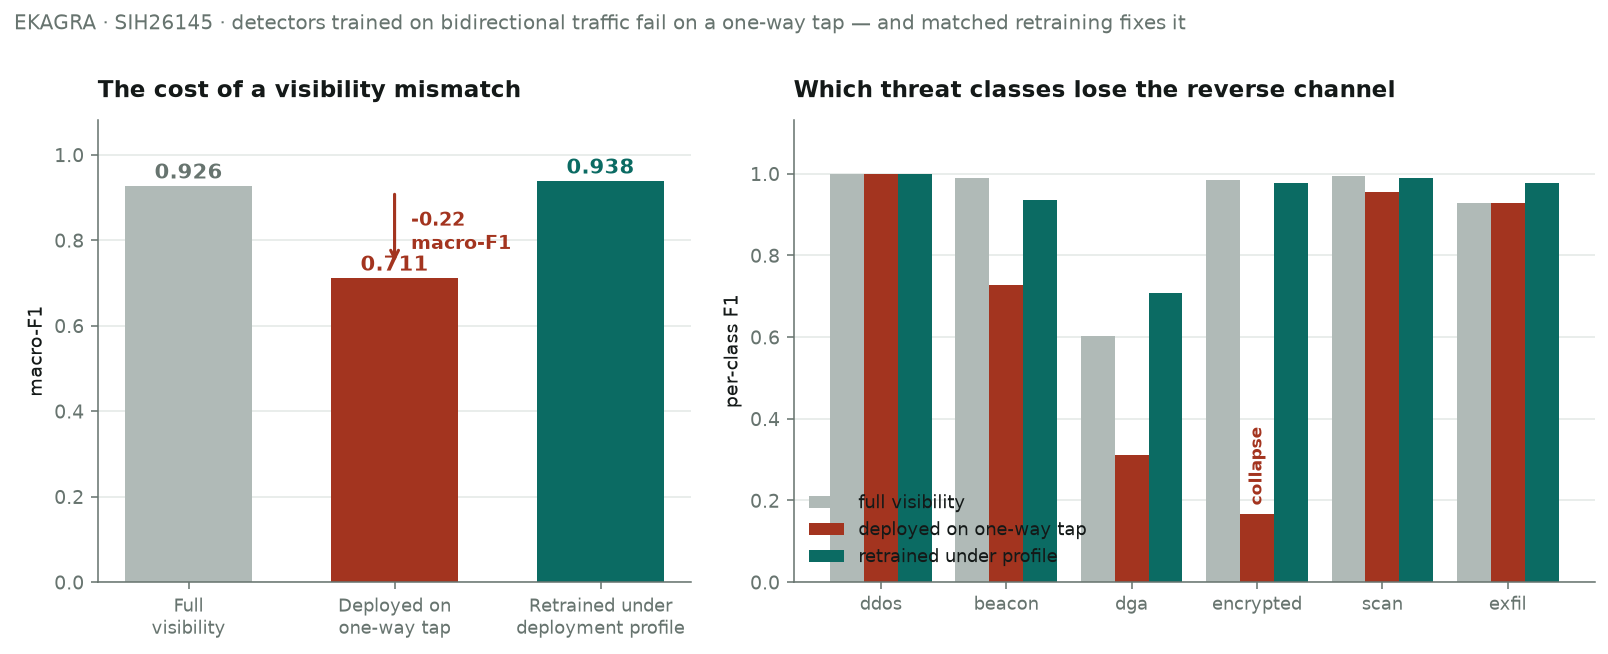
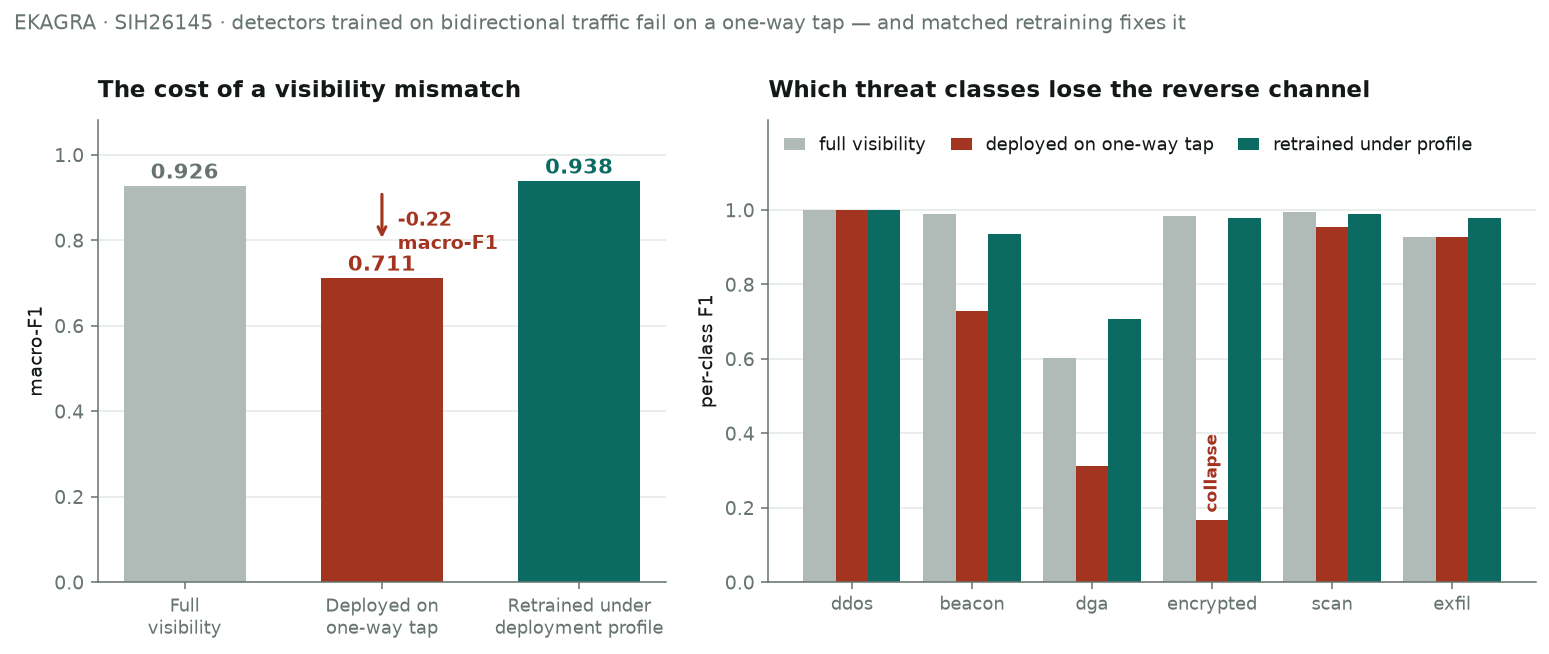
Stop figure 1's legend and arrow covering the data
The per-class legend sat at lower left, on top of the ddos and beacon bars,
and the annotation arrowhead landed on its own value label. The legend moves
above the bars in one row with headroom, and the arrow stops short of the
label. Same fault, same fix as make_figures_pipeline.py.

diff --git a/backend/experiments/make_figures.py b/backend/experiments/make_figures.py
@@ -65,7 +65,9 @@ def main() -> None:
                  color=colors[i] if i else MUTED)
 
     drop = vals[1] - vals[0]
-    ax1.annotate("", xy=(1, vals[1] + 0.03), xytext=(1, vals[0] - 0.01),
+    # The head stops above the value label; at +0.03 it landed on the "7" of
+    # the label drawn at +0.018.
+    ax1.annotate("", xy=(1, vals[1] + 0.085), xytext=(1, vals[0] - 0.01),
                  arrowprops=dict(arrowstyle="->", color=RUST, lw=1.6))
     ax1.text(1.08, (vals[0] + vals[1]) / 2, f"{drop:+.2f}\nmacro-F1",
              color=RUST, fontsize=10, fontweight="bold", va="center")
@@ -97,11 +99,16 @@ def main() -> None:
 
     ax2.set_xticks(list(x))
     ax2.set_xticklabels(classes, fontsize=9.5)
-    ax2.set_ylim(0, 1.13)
+    # Headroom for a single-row legend above the bars. At loc="lower left" it
+    # sat inside the ddos and beacon bars and hid them - the same fault
+    # make_figures_pipeline.py fixes the same way.
+    ax2.set_ylim(0, 1.24)
+    ax2.set_yticks([0, 0.2, 0.4, 0.6, 0.8, 1.0])
     ax2.set_ylabel("per-class F1", fontsize=10)
     ax2.set_title("Which threat classes lose the reverse channel",
                   fontweight="bold", loc="left", pad=12)
-    ax2.legend(frameon=False, fontsize=9, ncol=1, loc="lower left")
+    ax2.legend(frameon=False, fontsize=9, ncol=3, loc="upper left",
+               handlelength=1.2, columnspacing=1.4)
     ax2.grid(axis="y", color="#E3E8E6", lw=0.8)
     ax2.set_axisbelow(True)
 
